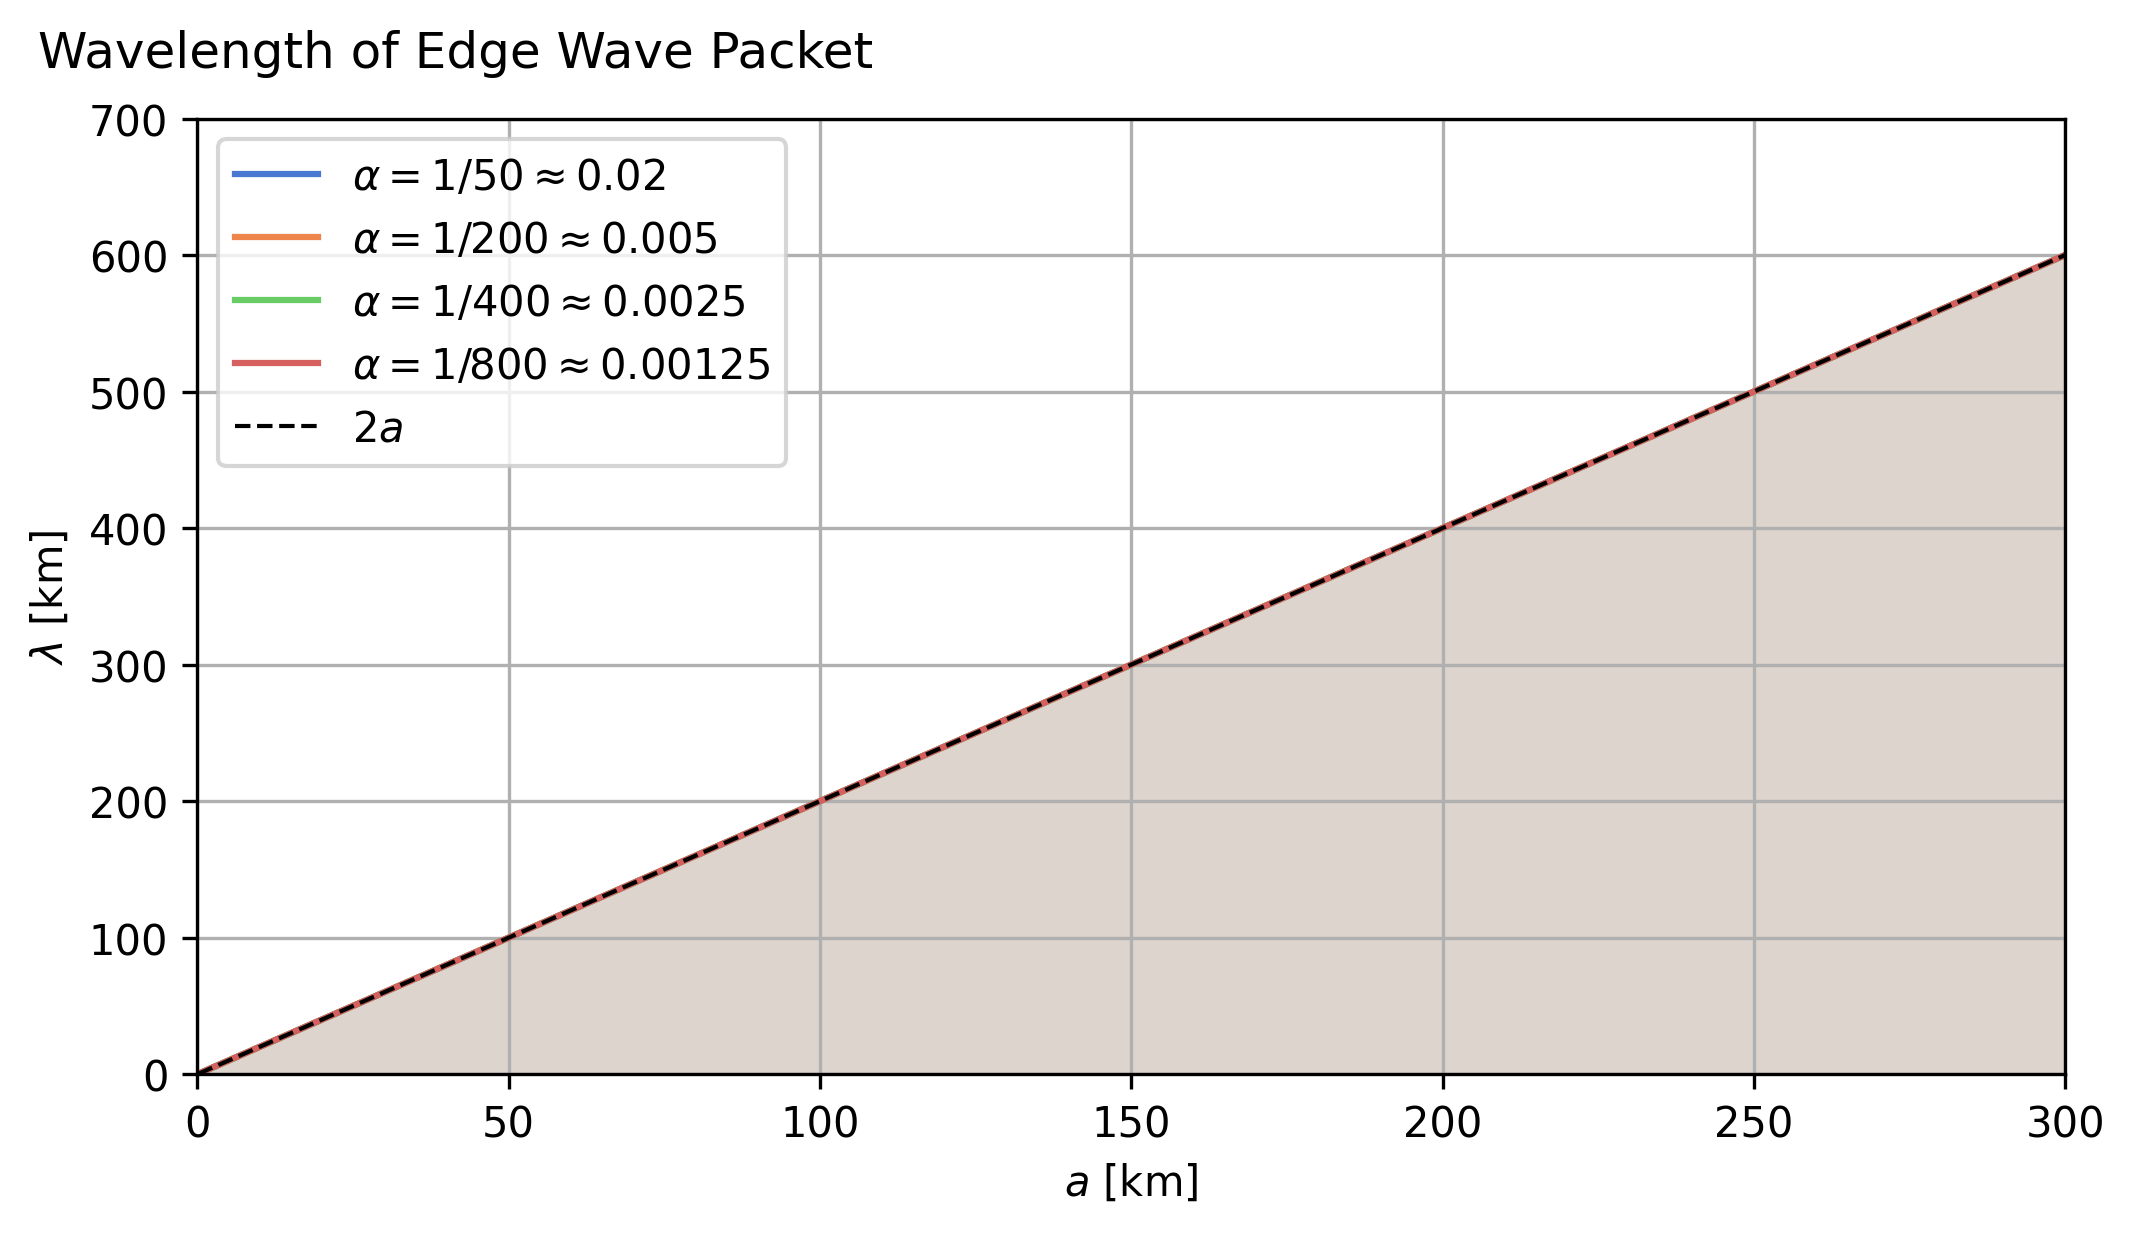
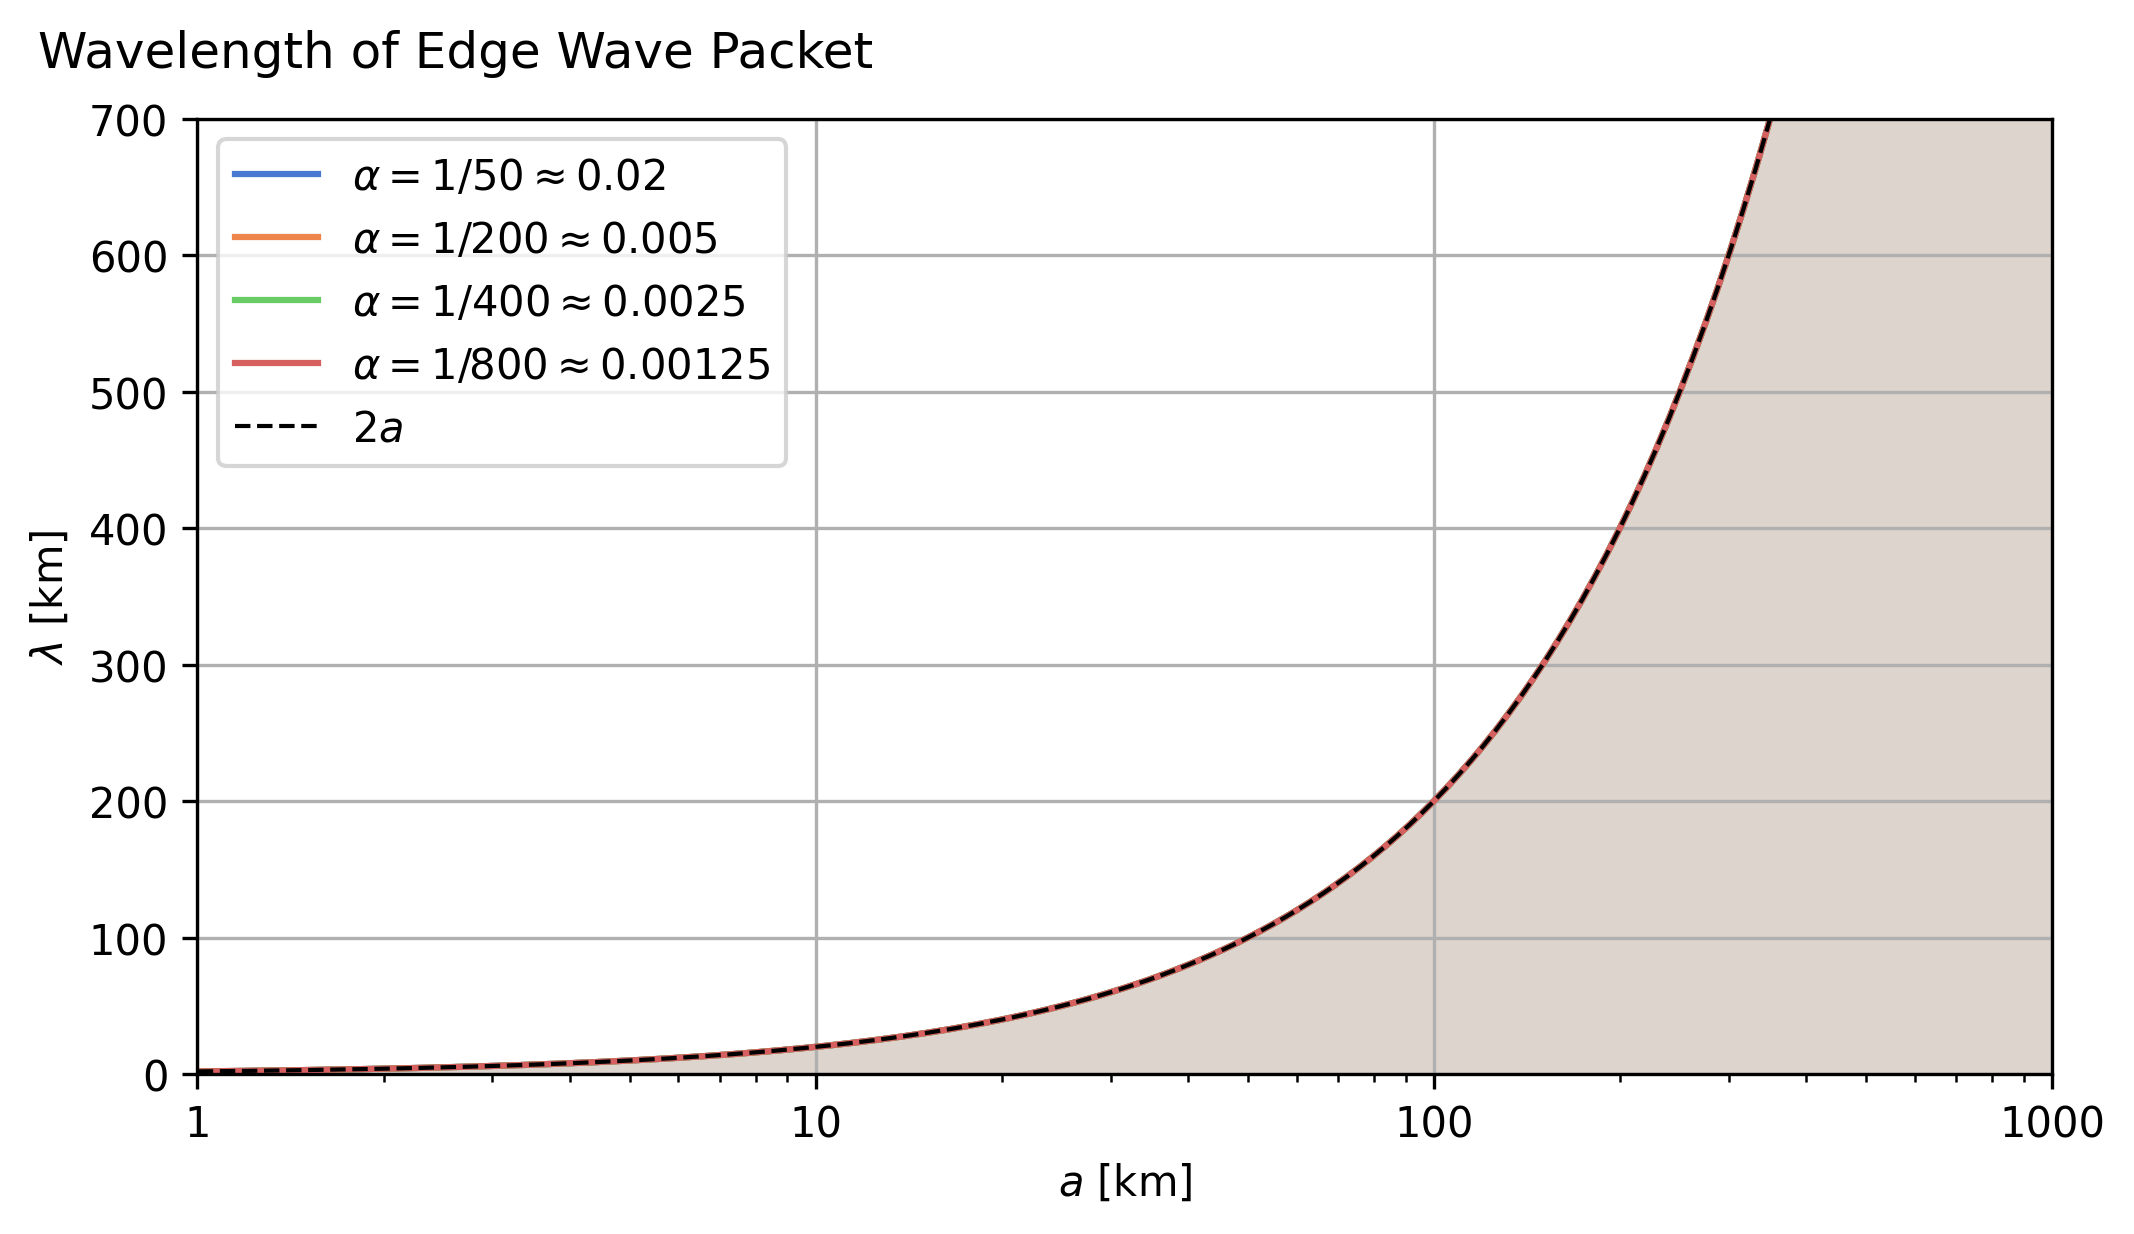
update figure

diff --git a/theory/theory_part1.py b/theory/theory_part1.py
@@ -128,9 +128,12 @@ def theory_figure_wavelength_vs_size(
     plt.legend()
     plt.xlabel("$a$ [km]")
     plt.ylabel("$\\lambda$ [km]")
-    plt.xlim(0, 300)
+    plt.xlim(1e0, 1e3)
     plt.ylim(0, 700)
     plt.grid()
+    plt.gca().set_xscale("log")
+    plt.gca().xaxis.set_major_formatter(mticker.ScalarFormatter())
+
     fig.get_layout_engine().execute(fig)
     plt.savefig(
         savename,
